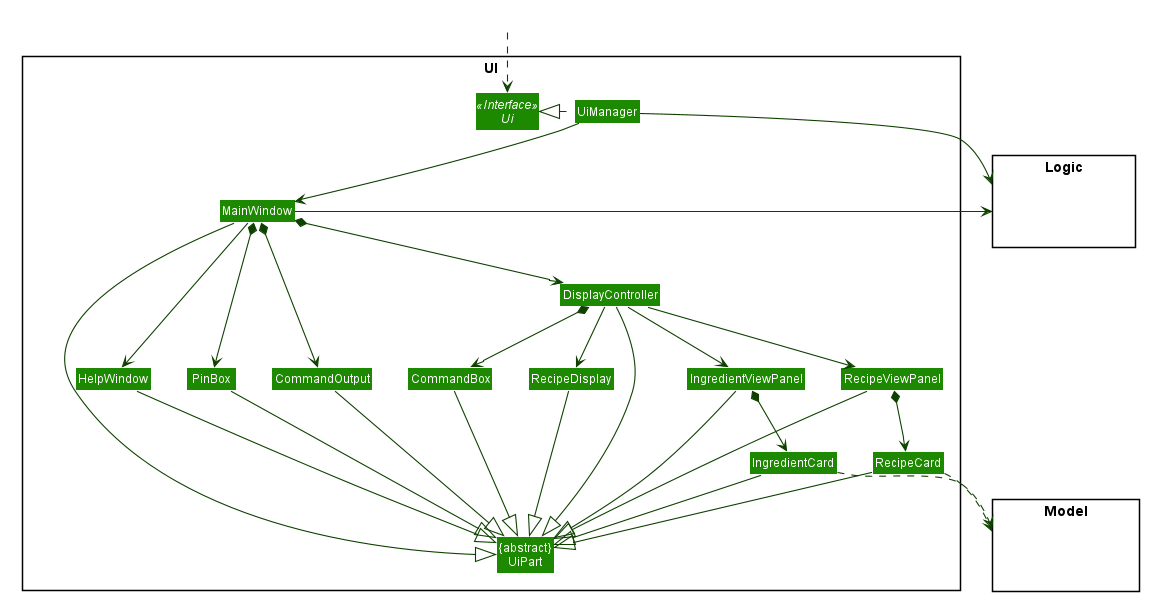
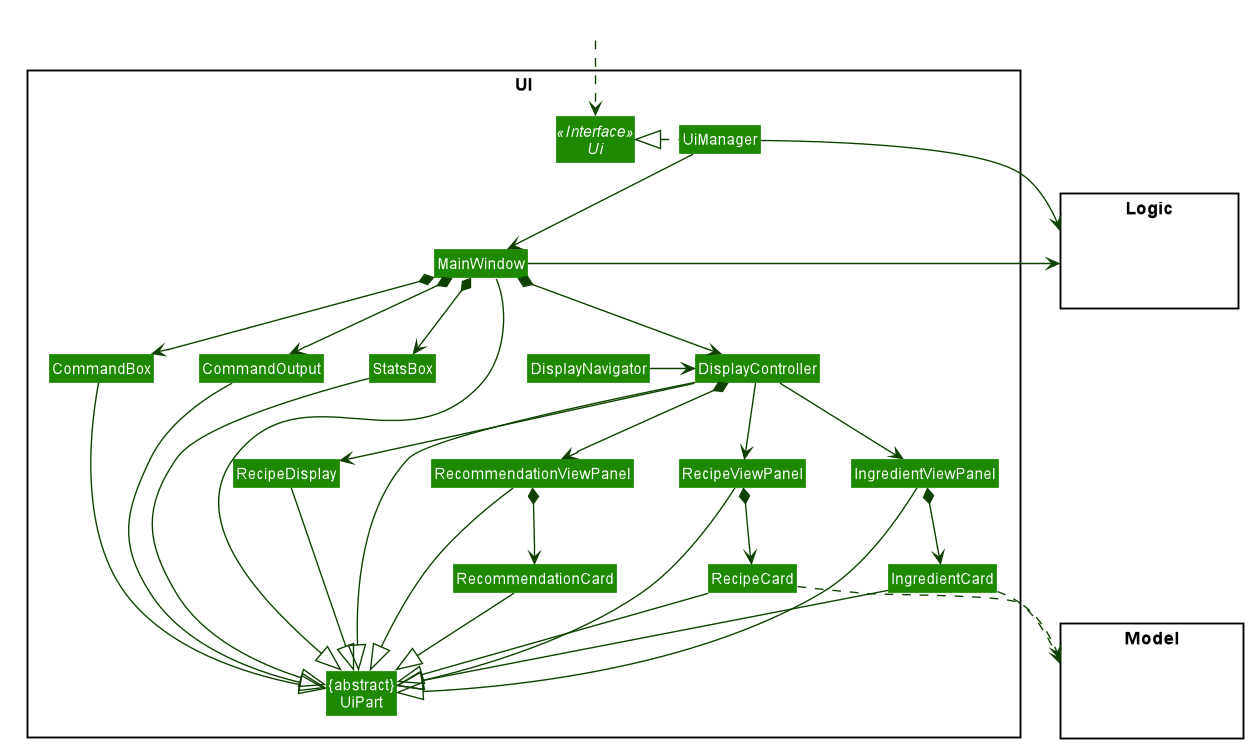
Update UI component description

diff --git a/docs/DeveloperGuide.md b/docs/DeveloperGuide.md
@@ -75,7 +75,7 @@ The following sections break down the various components in greater detail.
 ----------------
 ### 3.2&ensp;UI Component
 
-The *UI* component is responsible for all the user-facing views in the graphical user interface. This includes displaying recipes and ingredients, receiving command input from the user, and printing command results to the user.
+The *UI* component is responsible for all the user-facing views in the graphical user interface. This includes displaying recipes, ingredients and statistics, receiving command input from the user, and printing command results to the user.
 
 The class diagram of the UI component is shown below:
 
@@ -86,7 +86,7 @@ Figure 3: <i>The class diagram of the UI component</i>
 
 **Interface**: [`Ui.java`](https://github.com/AY2021S1-CS2103T-T10-3/tp/blob/master/src/main/java/chopchop/ui/Ui.java)
 
-The UI consists of a `MainWindow` that is made up of parts e.g.`HelpWindow`, `PinBox`, `CommandOutput`, `DisplayController`. All these, including the `MainWindow`, inherit from the abstract `UiPart` class.
+The UI consists of a `MainWindow` that is made up of parts e.g.`HelpWindow`, `StatsBox`, `CommandOutput`, `DisplayController`. All these, including the `MainWindow`, inherit from the abstract `UiPart` class.
 
 The graphical user interface is built using the JavaFX UI framework. The layout of these parts are defined in matching `.fxml` files that are in the `src/main/resources/view` folder. For example, the layout of the [`MainWindow`](https://github.com/AY2021S1-CS2103T-T10-3/tp/blob/master/src/main/java/chopchop/ui/MainWindow.java) is specified in [`MainWindow.fxml`](https://github.com/AY2021S1-CS2103T-T10-3/tp/blob/master/src/main/resources/view/MainWindow.fxml).
 
